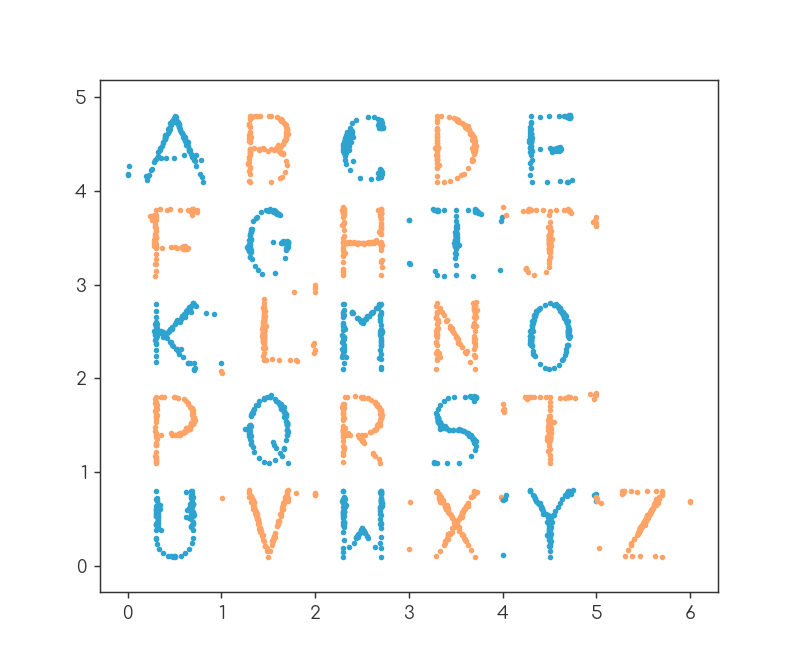
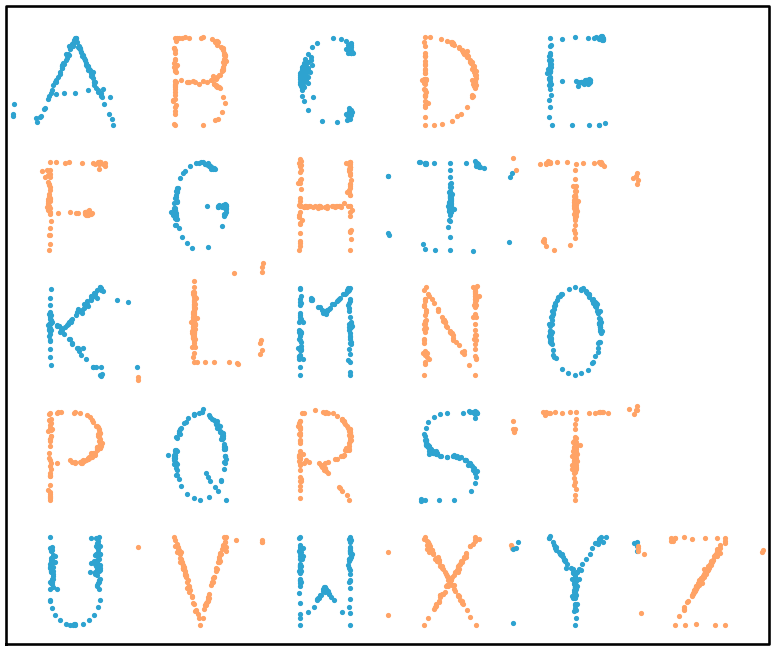
update readme image

diff --git a/make_readme_png.py b/make_readme_png.py
@@ -11,7 +11,7 @@ plt.rcParams["axes.edgecolor"] = "#333333"
 plt.rcParams["xtick.color"] = "#333333"
 plt.rcParams["ytick.color"] = "#333333"
 
-plt.figure(figsize=(6, 5))
+plt.figure(figsize=(6.2, 5.2))
 for i, letter in enumerate("ABCDEFGHIJKLMNOPQRSTUVWXYZ"):
     row = i // 5
     col = i % 5
@@ -25,9 +25,11 @@ for i, letter in enumerate("ABCDEFGHIJKLMNOPQRSTUVWXYZ"):
         plt.plot(col + pts[:, 0], 4 - row + pts[:, 1], "o", color="#2EA3D0", markersize=2)
     else:
         plt.plot(col + pts[:, 0], 4 - row + pts[:, 1], "o", color="#FFA366", markersize=2)
-    plt.xlim([-0.05, 6.05])
-    plt.ylim([-0.05, 5.05])
-    plt.axis("equal")
-plt.savefig("img/all.png", dpi=133)
+plt.plot([-0.05, 6.05, 6.05, -0.05, -0.05], [-0.05, -0.05, 5.05, 5.05, -0.05], "k-")
+plt.xlim([-0.1, 6.1])
+plt.ylim([-0.1, 5.1])
+plt.axis("off")
+plt.gca().set_position((0, 0, 1, 1))
+plt.savefig("img/all.png", dpi=125)
 plt.clf()
 plt.close()
